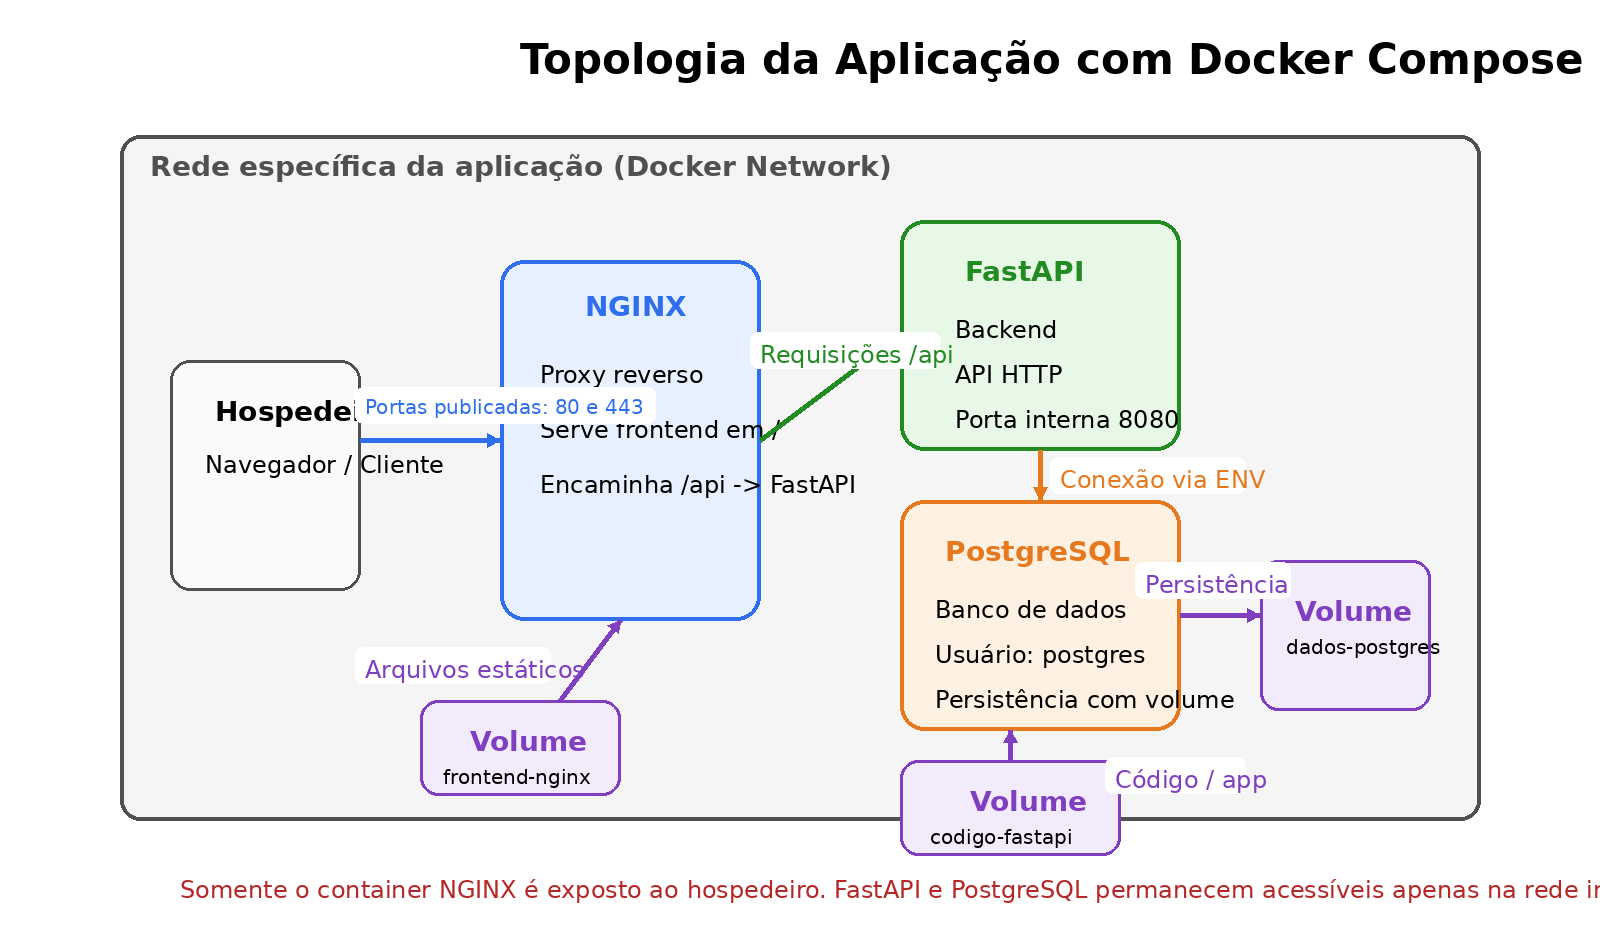
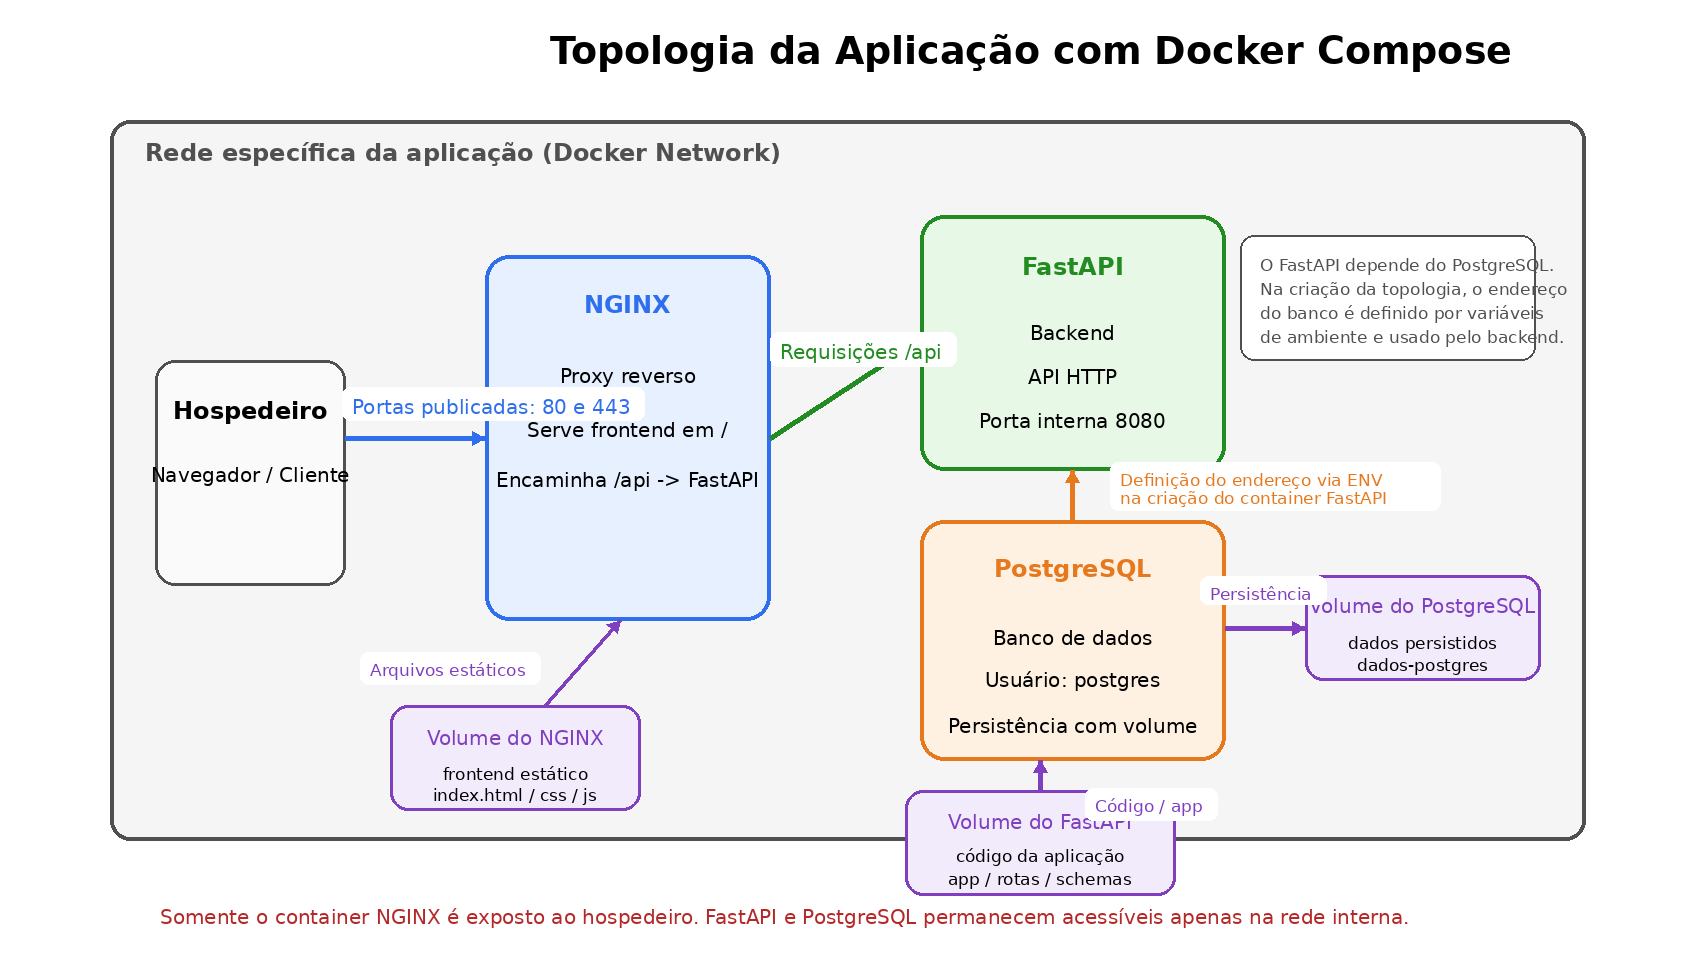
fix: README.md and topologia-docker-compose.png

diff --git a/trabalho01/README.md b/trabalho01/README.md
@@ -19,7 +19,9 @@ Implementar uma aplicação web conteinerizada utilizando **Docker Compose**, co
 
 A arquitetura esperada da solução é composta por três containers principais: **NGINX**, **FastAPI** e **PostgreSQL**.  
 O **NGINX** será o único serviço exposto ao hospedeiro, com mapeamento das portas **80** e **443**, servindo o frontend estático na raiz `/` e encaminhando as requisições de `/api` para o backend em **FastAPI**.  
-O backend deverá se conectar ao banco **PostgreSQL** por meio da rede interna da aplicação, utilizando variáveis de ambiente para configuração. O banco de dados deverá utilizar volume para persistência.
+O backend deverá se conectar ao banco **PostgreSQL** por meio da rede interna da aplicação, utilizando variáveis de ambiente para configuração. O banco de dados deverá utilizar volume para persistência.  
+Além do volume do **PostgreSQL**, a topologia também poderá utilizar volume no **NGINX** para os arquivos estáticos do frontend e no **FastAPI** para o código da aplicação.  
+A inicialização do serviço **FastAPI** depende da disponibilidade inicial do **PostgreSQL**, pois o backend recebe por variáveis de ambiente a definição do endereço do banco no momento da criação da topologia e utiliza essa informação para estabelecer a conexão com o serviço de banco de dados.
 
 ![Topologia da aplicação](topologia-docker-compose.png)
 
@@ -83,6 +85,8 @@ A solução deve possuir, no mínimo, os seguintes containers:
 ### 2. Backend FastAPI
 A API deverá:
 
+- depender do início do serviço PostgreSQL;
+
 - rodar em container próprio;
 - escutar na porta **8080**;
 - implementar **CRUD completo** do tema proposto;
@@ -111,6 +115,8 @@ O serviço do banco deverá:
 
 ### 5. Docker Compose
 O arquivo `docker-compose.yml` deverá:
+
+- prever a dependência de inicialização entre FastAPI e PostgreSQL;
 
 - definir todos os serviços;
 - criar uma **rede própria** para a aplicação;
